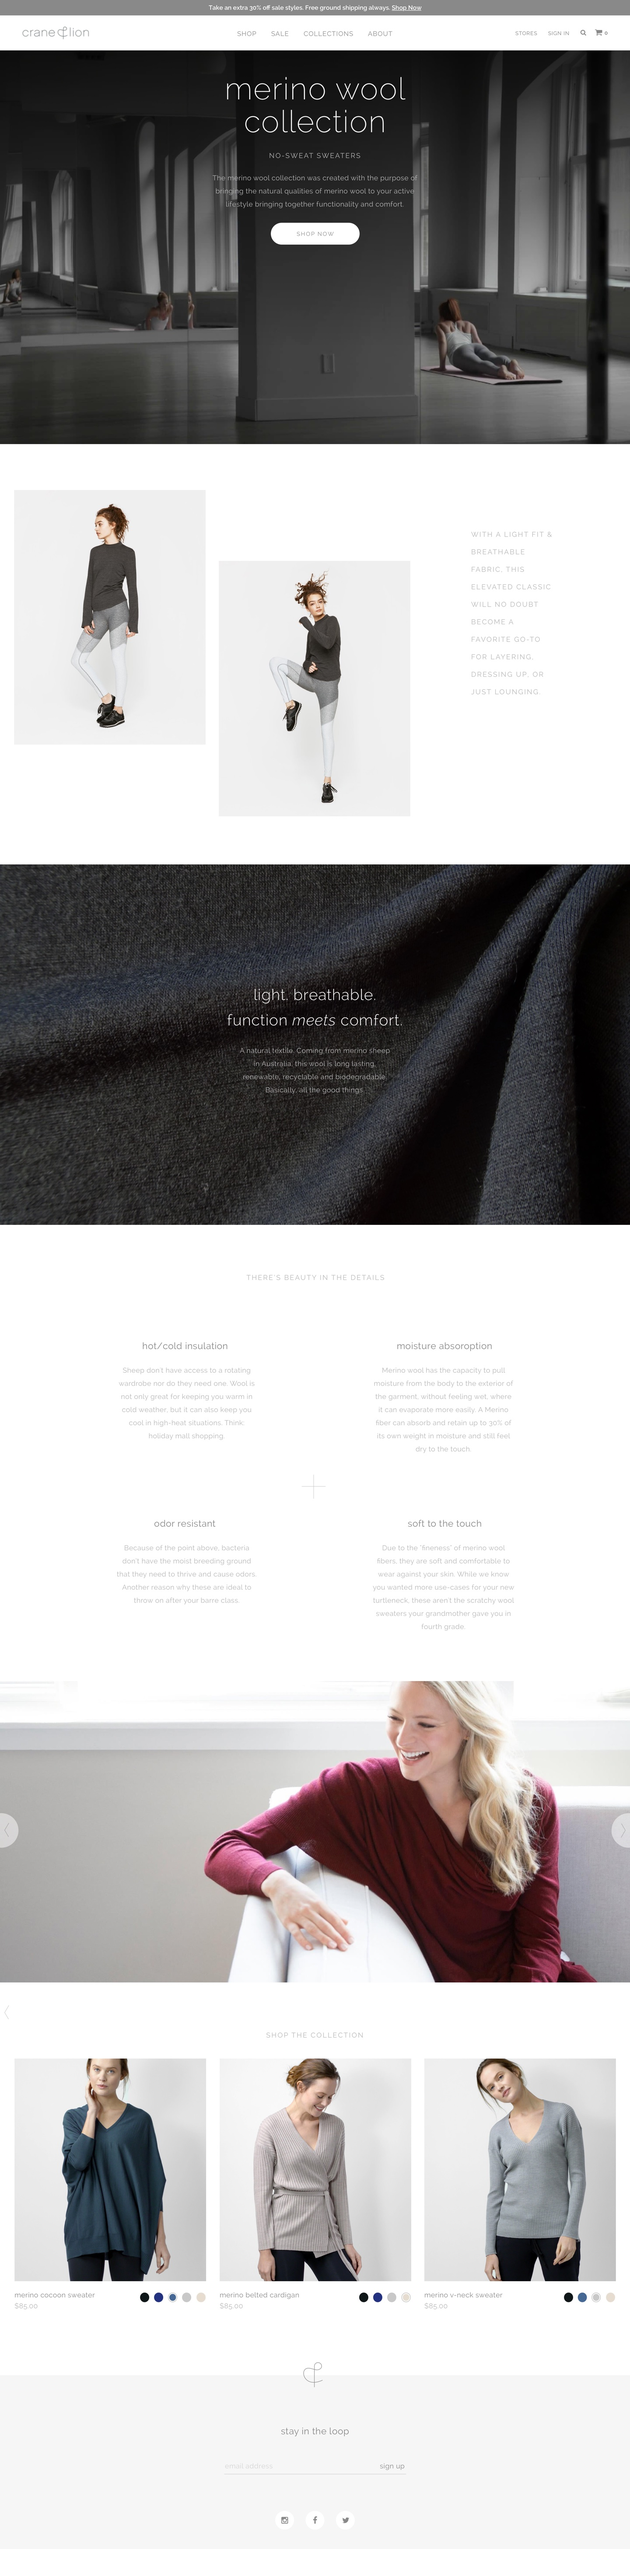
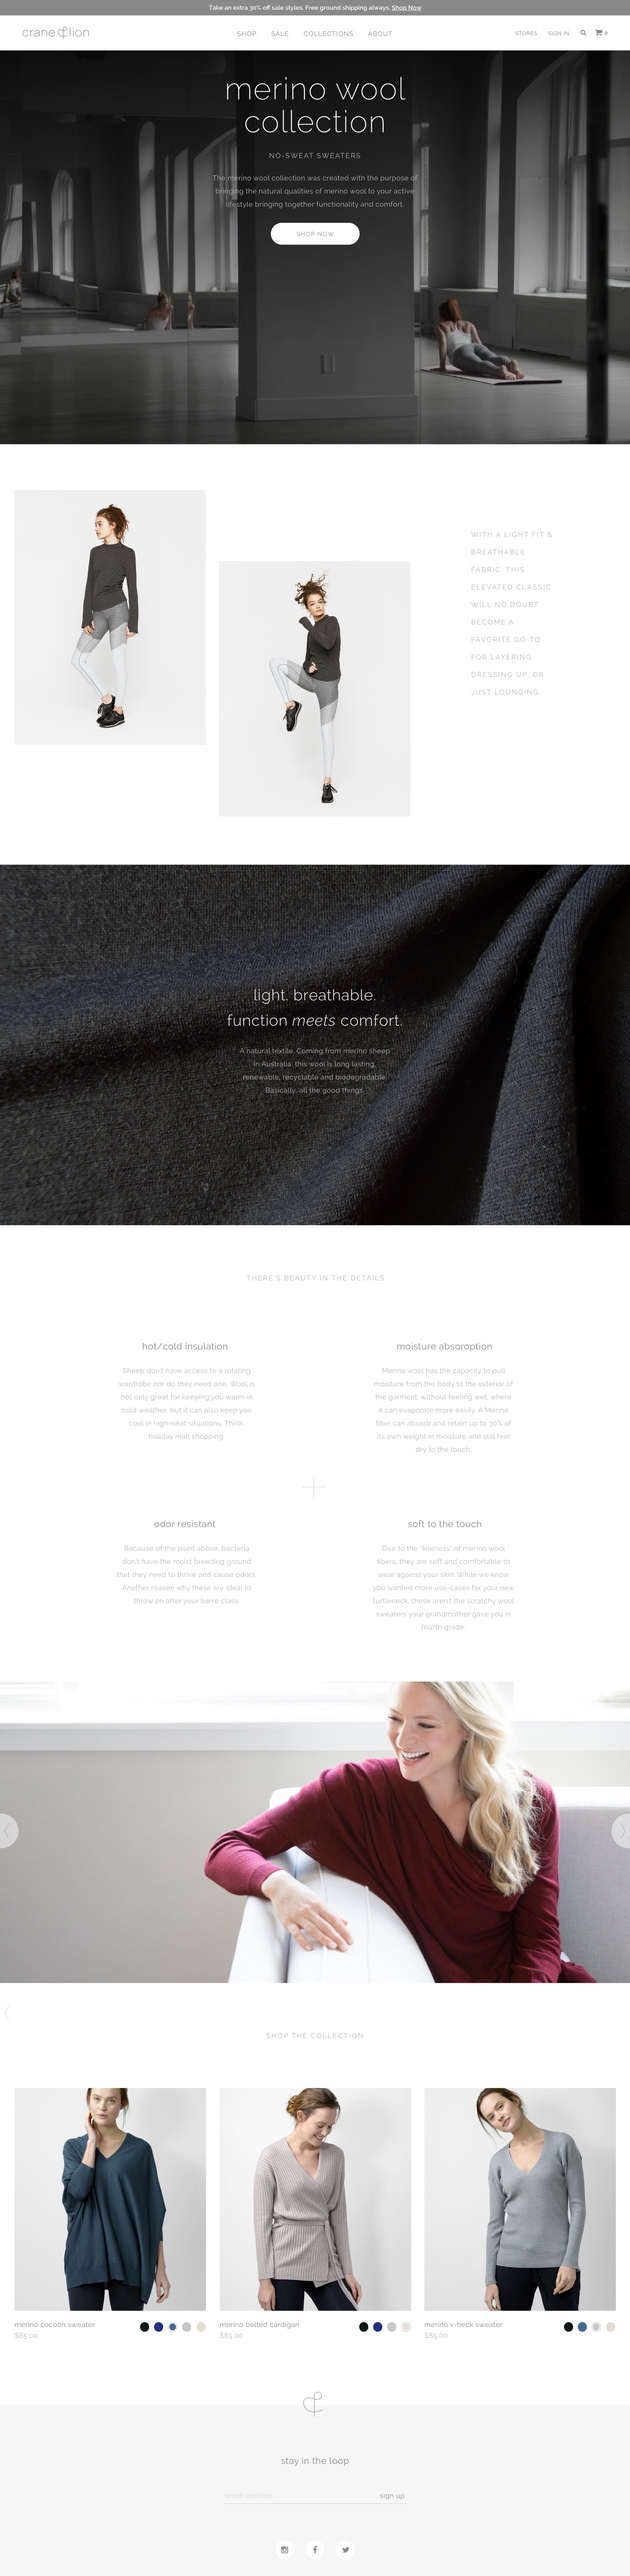
alt

diff --git a/cl/merino-lp/alt/lp.hyperesources/lp_hype_generated_script.js b/cl/merino-lp/alt/lp.hyperesources/lp_hype_generated_script.js
@@ -3,5 +3,5 @@
 (function(){(function k(){function l(a,b,d){var c=!1;null==window[a]&&(null==window[b]?(window[b]=[],window[b].push(k),a=document.getElementsByTagName("head")[0],b=document.createElement("script"),c=h,false==!0&&(c=""),b.type="text/javascript",b.src=c+"/"+d,a.appendChild(b)):window[b].push(k),c=!0);return c}var h="lp.hyperesources",c="lp",e="lp_hype_container";if(false==!1)try{for(var f=document.getElementsByTagName("script"),
 a=0;a<f.length;a++){var b=f[a].src;if(null!=b&&-1!=b.indexOf("lp_hype_generated_script.js")){h=b.substr(0,b.lastIndexOf("/"));break}}}catch(n){}if(false==!1&&(a=navigator.userAgent.match(/MSIE (\d+\.\d+)/),a=parseFloat(a&&a[1])||null,a=l("HYPE_552","HYPE_dtl_552",!0==(null!=a&&10>a||false==!0)?"HYPE-552.full.min.js":"HYPE-552.thin.min.js"),false==!0&&(a=a||l("HYPE_w_552","HYPE_wdtl_552","HYPE-552.waypoints.min.js")),a))return;
 f=window.HYPE.documents;if(null!=f[c]){b=1;a=c;do c=""+a+"-"+b++;while(null!=f[c]);for(var d=document.getElementsByTagName("div"),b=!1,a=0;a<d.length;a++)if(d[a].id==e&&null==d[a].getAttribute("HYP_dn")){var b=1,g=e;do e=""+g+"-"+b++;while(null!=document.getElementById(e));d[a].id=e;b=!0;break}if(!1==b)return}b=[];b=[{name:"untitledFunction",source:"function(hypeDocument, element, event) {\t\n\tmenu = hypeDocument.getElementById('menu');\n\n\n\twindow.onscroll = function(){\n\t\tvar scroll = window.pageYOffset || (document.body.scrollTop || document.documentElement.scrollTop);\n\t\t\n\t\tvar menuDelta = 100;\n\n\n\t\tif (scroll > menuDelta){\n\t\t\tmenu.classList.add('sticky')\n\t\t}\n\t\tif (scroll <= menuDelta){\n\t\t\tmenu.classList.remove('sticky')\n\t\t}\n\t\t\n\t};\t\n\n}",identifier:"12"}];d={};g={};for(a=0;a<b.length;a++)try{g[b[a].identifier]=b[a].name,d[b[a].name]=eval("(function(){return "+b[a].source+"})();")}catch(m){window.console&&window.console.log(m),
-d[b[a].name]=function(){}}a=new HYPE_552(c,e,{"3":{p:1,n:"Pasted.png",g:"30",o:true,t:"@1x"},"4":{p:1,n:"Pasted_2x.png",g:"30",o:true,t:"@2x"},"0":{p:1,n:"fixed-nav.png",g:"10",o:true,t:"@1x"},"5":{p:1,n:"Product%20Landing%20Page%20_v1.1%40-alt.jpg",g:"25",o:true,t:"@1x"},"1":{p:1,n:"fixed-nav_2x.png",g:"10",o:true,t:"@2x"},"6":{p:1,n:"Product%20Landing%20Page%20_v1.1%40-alt_2x.jpg",g:"25",o:true,t:"@2x"},"2":{n:"yoga-lulu.mp4",g:"7",t:"video/mp4"}},h,[],d,[{n:"Untitled Scene",o:"1",X:[0]}],[{o:"3",p:"600px",x:0,cA:false,Z:5827,Y:1440,c:"#FFFFFF",L:[],bY:1,d:1440,U:{},T:{kTimelineDefaultIdentifier:{i:"kTimelineDefaultIdentifier",n:"Main Timeline",z:40.13,b:[],a:[{y:0,p:1,i:"Video Track",z:40.13,o:"33",f:"a"},{f:"c",p:2,y:0,z:0,i:"ActionHandler",s:{a:[{p:4,h:"12"}]},o:"kTimelineDefaultIdentifier"}],f:30}},bZ:180,O:["34","32","33","35"],v:{"34":{h:"10",p:"no-repeat",x:"visible",i:"menu",q:"100% 100%",a:-6,j:"absolute",b:-154,c:1440,k:"div",z:7,d:120,r:"inline"},"33":{aR:"1",x:"visible",i:"yogavideo",bE:"7",a:-108,j:"absolute",b:117,z:4,k:"video",cP:"video",d:904,aO:"0",c:1656,aQ:"1",aH:"1"},"32":{h:"30",p:"no-repeat",x:"visible",a:0,q:"100% 100%",b:115,j:"absolute",r:"inline",c:1440,k:"div",z:5,d:675},"35":{h:"25",p:"no-repeat",x:"visible",a:0,q:"100% 100%",b:0,j:"absolute",r:"inline",c:1440,k:"div",z:2,d:5827}}}],{},g,{},null,false,true,-1,true,true,false,true);f[c]=a.API;document.getElementById(e).setAttribute("HYP_dn",
+d[b[a].name]=function(){}}a=new HYPE_552(c,e,{"3":{p:1,n:"Pasted.png",g:"30",o:true,t:"@1x"},"4":{p:1,n:"Pasted_2x.png",g:"30",o:true,t:"@2x"},"0":{p:1,n:"fixed-nav.png",g:"10",o:true,t:"@1x"},"5":{p:1,n:"Product%20Landing%20Page%20_v1.1%40-alt.jpg",g:"32",o:true,t:"@1x"},"1":{p:1,n:"fixed-nav_2x.png",g:"10",o:true,t:"@2x"},"6":{p:1,n:"Product%20Landing%20Page%20_v1.1%40-alt_2x.jpg",g:"32",o:true,t:"@2x"},"2":{n:"yoga-lulu.mp4",g:"7",t:"video/mp4"}},h,[],d,[{n:"Untitled Scene",o:"1",X:[0]}],[{o:"3",p:"600px",x:0,cA:false,Z:5887,Y:1440,c:"#FFFFFF",L:[],bY:1,d:1440,U:{},T:{kTimelineDefaultIdentifier:{i:"kTimelineDefaultIdentifier",n:"Main Timeline",z:40.13,b:[],a:[{y:0,p:1,i:"Video Track",z:40.13,o:"35",f:"a"},{f:"c",p:2,y:0,z:0,i:"ActionHandler",s:{a:[{p:4,h:"12"}]},o:"kTimelineDefaultIdentifier"}],f:30}},bZ:180,O:["37","36","34","35"],v:{"34":{h:"30",p:"no-repeat",x:"visible",a:0,q:"100% 100%",b:115,j:"absolute",r:"inline",c:1440,k:"div",z:5,d:675},"37":{h:"32",p:"no-repeat",x:"visible",a:0,q:"100% 100%",b:-1,j:"absolute",r:"inline",c:1440,k:"div",z:8,d:5887},"36":{h:"10",p:"no-repeat",x:"visible",i:"menu",q:"100% 100%",a:-6,j:"absolute",b:-154,c:1440,k:"div",z:7,d:120,r:"inline"},"35":{aR:"1",x:"visible",i:"yogavideo",bE:"7",a:-108,j:"absolute",b:117,z:4,k:"video",cP:"video",d:904,aO:"0",c:1656,aQ:"1",aH:"1"}}}],{},g,{},null,false,true,-1,true,true,false,true);f[c]=a.API;document.getElementById(e).setAttribute("HYP_dn",
 c);a.z_o(this.body)})();})();

diff --git a/cl/merino-lp/alt/lp.html b/cl/merino-lp/alt/lp.html
@@ -47,8 +47,8 @@
   <body>
 	<!-- copy these lines to your document: -->
 
-	<div id="lp_hype_container" style="margin:auto;position:relative;width:1440px;height:5827px;overflow:hidden;" aria-live="polite">
-		<script type="text/javascript" charset="utf-8" src="lp.hyperesources/lp_hype_generated_script.js?82495"></script>
+	<div id="lp_hype_container" style="margin:auto;position:relative;width:1440px;height:5887px;overflow:hidden;" aria-live="polite">
+		<script type="text/javascript" charset="utf-8" src="lp.hyperesources/lp_hype_generated_script.js?22806"></script>
 	</div>
 
 	<!-- end copy -->
